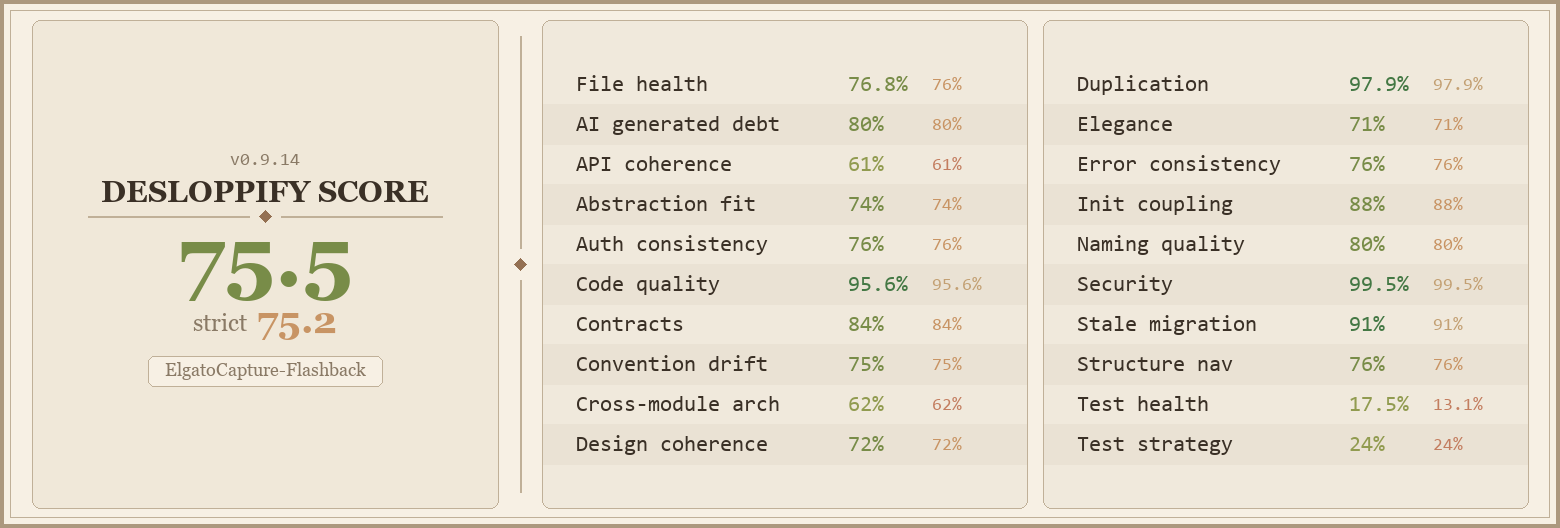
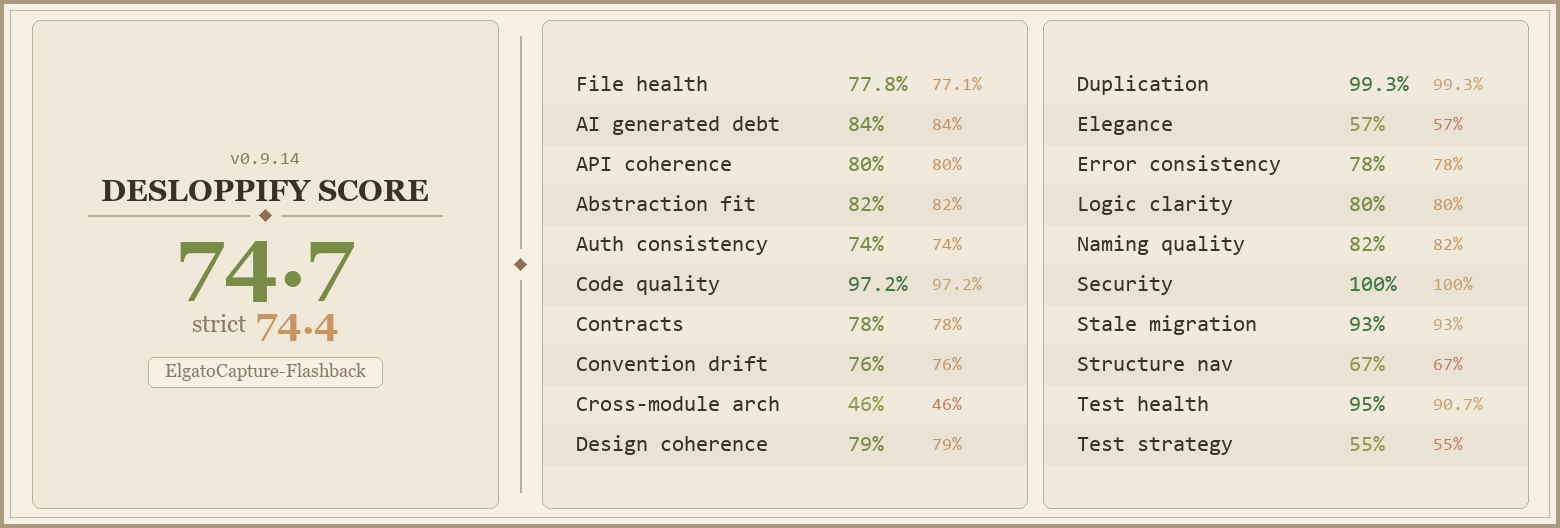
refactor: organize Services/ into domain-aligned subdirectories
Move 36 files from flat Services/ into 8 subdirectories:
- Flashback/ (5): buffer, decoder, encoder sink, exporter, playback
- Audio/ (5): WASAPI capture/playback/interop, device watcher, XU audio
- Preview/ (3): D3D11 renderer, frame sink, shared device manager
- Recording/ (5): LibAv encoder/sink, artifact manager, contracts, verifier
- Automation/ (4): command dispatcher, diagnostics hub, interfaces, pipe server
- Capture/ (6): capture service, coordinator, unified video, MF reader/enum, device
- Gpu/ (5): CUDA interop, NVDEC, NVML, parallel MJPEG, software MJPEG
- Telemetry/ (3): XU AT provider, interface, disabled provider
8 utility files remain in Services/ root.

No namespace changes. No code changes. All 74 tests pass.

diff --git a/tests/ElgatoCapture.Tests/Program.cs b/tests/ElgatoCapture.Tests/Program.cs
@@ -539,7 +539,7 @@ static class Program
     private static Task AutomationSnapshots_ExposeHighConfidenceSourceTelemetryFields()
     {
         var contractsText = ReadRepoFile("ElgatoCapture/Models/AutomationContracts.cs").Replace("\r\n", "\n");
-        var diagnosticsHubText = ReadRepoFile("ElgatoCapture/Services/AutomationDiagnosticsHub.cs").Replace("\r\n", "\n");
+        var diagnosticsHubText = ReadRepoFile("ElgatoCapture/Services/Automation/AutomationDiagnosticsHub.cs").Replace("\r\n", "\n");
 
         AssertContains(contractsText, "public string? SourceFirmware { get; init; }");
         AssertContains(contractsText, "public string? SourceAudioFormat { get; init; }");
@@ -1038,7 +1038,7 @@ static class Program
 
     private static Task UiAutomationCommands_AreNotBlockedOnDeviceReadiness()
     {
-        var dispatcherText = ReadRepoFile("ElgatoCapture/Services/AutomationCommandDispatcher.cs");
+        var dispatcherText = ReadRepoFile("ElgatoCapture/Services/Automation/AutomationCommandDispatcher.cs");
 
         AssertDoesNotContain(dispatcherText, "AutomationCommandKind.SetShowAllCaptureOptions => true,");
         AssertDoesNotContain(dispatcherText, "AutomationCommandKind.SetPreviewVolume => true,");
@@ -1098,7 +1098,7 @@ static class Program
 
     private static Task DiagnosticsLoop_DoesNotRebuildAutomationOptionsEachPoll()
     {
-        var diagnosticsHubText = ReadRepoFile("ElgatoCapture/Services/AutomationDiagnosticsHub.cs");
+        var diagnosticsHubText = ReadRepoFile("ElgatoCapture/Services/Automation/AutomationDiagnosticsHub.cs");
         var mainViewModelText = ReadRepoFile("ElgatoCapture/ViewModels/MainViewModel.cs");
 
         AssertDoesNotContain(diagnosticsHubText, "GetAutomationOptionsSnapshotAsync(cancellationToken)");
@@ -1110,7 +1110,7 @@ static class Program
 
     private static Task PreviewStartup_ToleratesMissingAudioCaptureDevices()
     {
-        var captureServiceText = ReadRepoFile("ElgatoCapture/Services/CaptureService.cs").Replace("\r\n", "\n");
+        var captureServiceText = ReadRepoFile("ElgatoCapture/Services/Capture/CaptureService.cs").Replace("\r\n", "\n");
 
         AssertContains(captureServiceText, "if (settings.AudioEnabled && !string.IsNullOrWhiteSpace(audioDeviceId))");
         AssertContains(captureServiceText, "Audio preview requested but no audio capture device is available; continuing with video-only preview.");
@@ -1181,7 +1181,7 @@ static class Program
 
     private static Task PreviewBackendLog_ReflectsVideoOnlyFallback()
     {
-        var captureServiceText = ReadRepoFile("ElgatoCapture/Services/CaptureService.cs").Replace("\r\n", "\n");
+        var captureServiceText = ReadRepoFile("ElgatoCapture/Services/Capture/CaptureService.cs").Replace("\r\n", "\n");
 
         AssertContains(captureServiceText, "_wasapiAudioCapture != null");
         AssertContains(captureServiceText, "\"Preview backend active: IMFSourceReader video + WASAPI audio ingest.\"");
@@ -1212,7 +1212,7 @@ static class Program
         var mainWindowXaml = ReadRepoFile("ElgatoCapture/MainWindow.xaml").Replace("\r\n", "\n");
         var statsWindowText = ReadRepoFile("ElgatoCapture/StatsWindow.xaml.cs").Replace("\r\n", "\n");
         var statsWindowXaml = ReadRepoFile("ElgatoCapture/StatsWindow.xaml").Replace("\r\n", "\n");
-        var nativeXuText = ReadRepoFile("ElgatoCapture/Services/NativeXuAtCommandProvider.cs").Replace("\r\n", "\n");
+        var nativeXuText = ReadRepoFile("ElgatoCapture/Services/Telemetry/NativeXuAtCommandProvider.cs").Replace("\r\n", "\n");
 
         AssertContains(mainWindowText, "var sourceHdr = FormatSourceHdr(snapshot.SourceIsHdr, snapshot.SourceColorimetry);");
         AssertContains(mainWindowText, "var sourceFormat = snapshot.SourceVideoFormat ?? \"\\u2014\";");